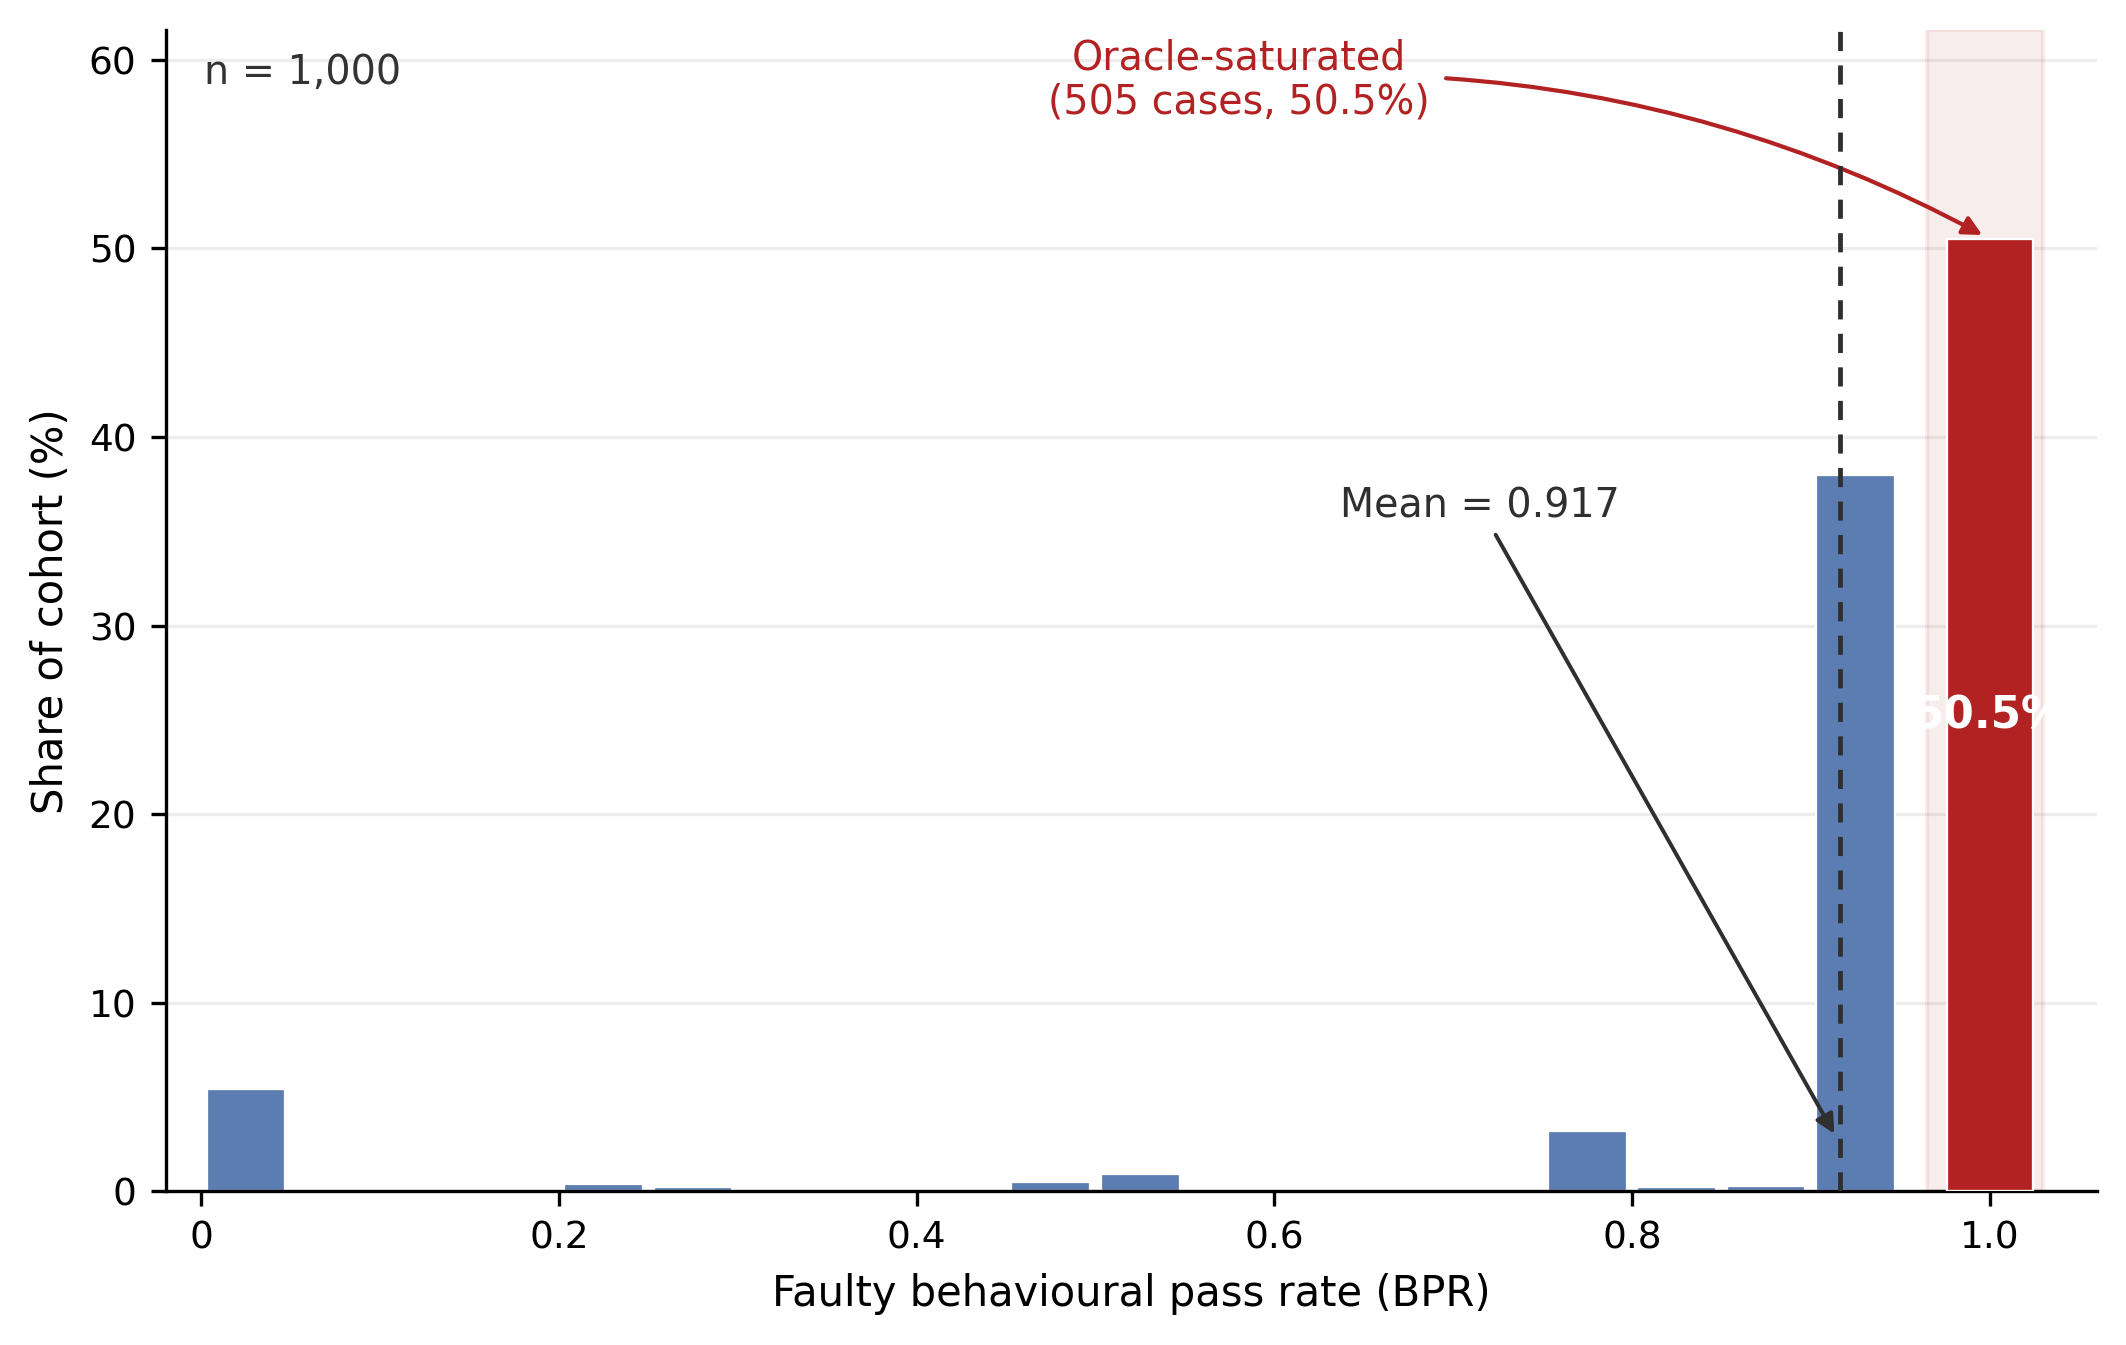
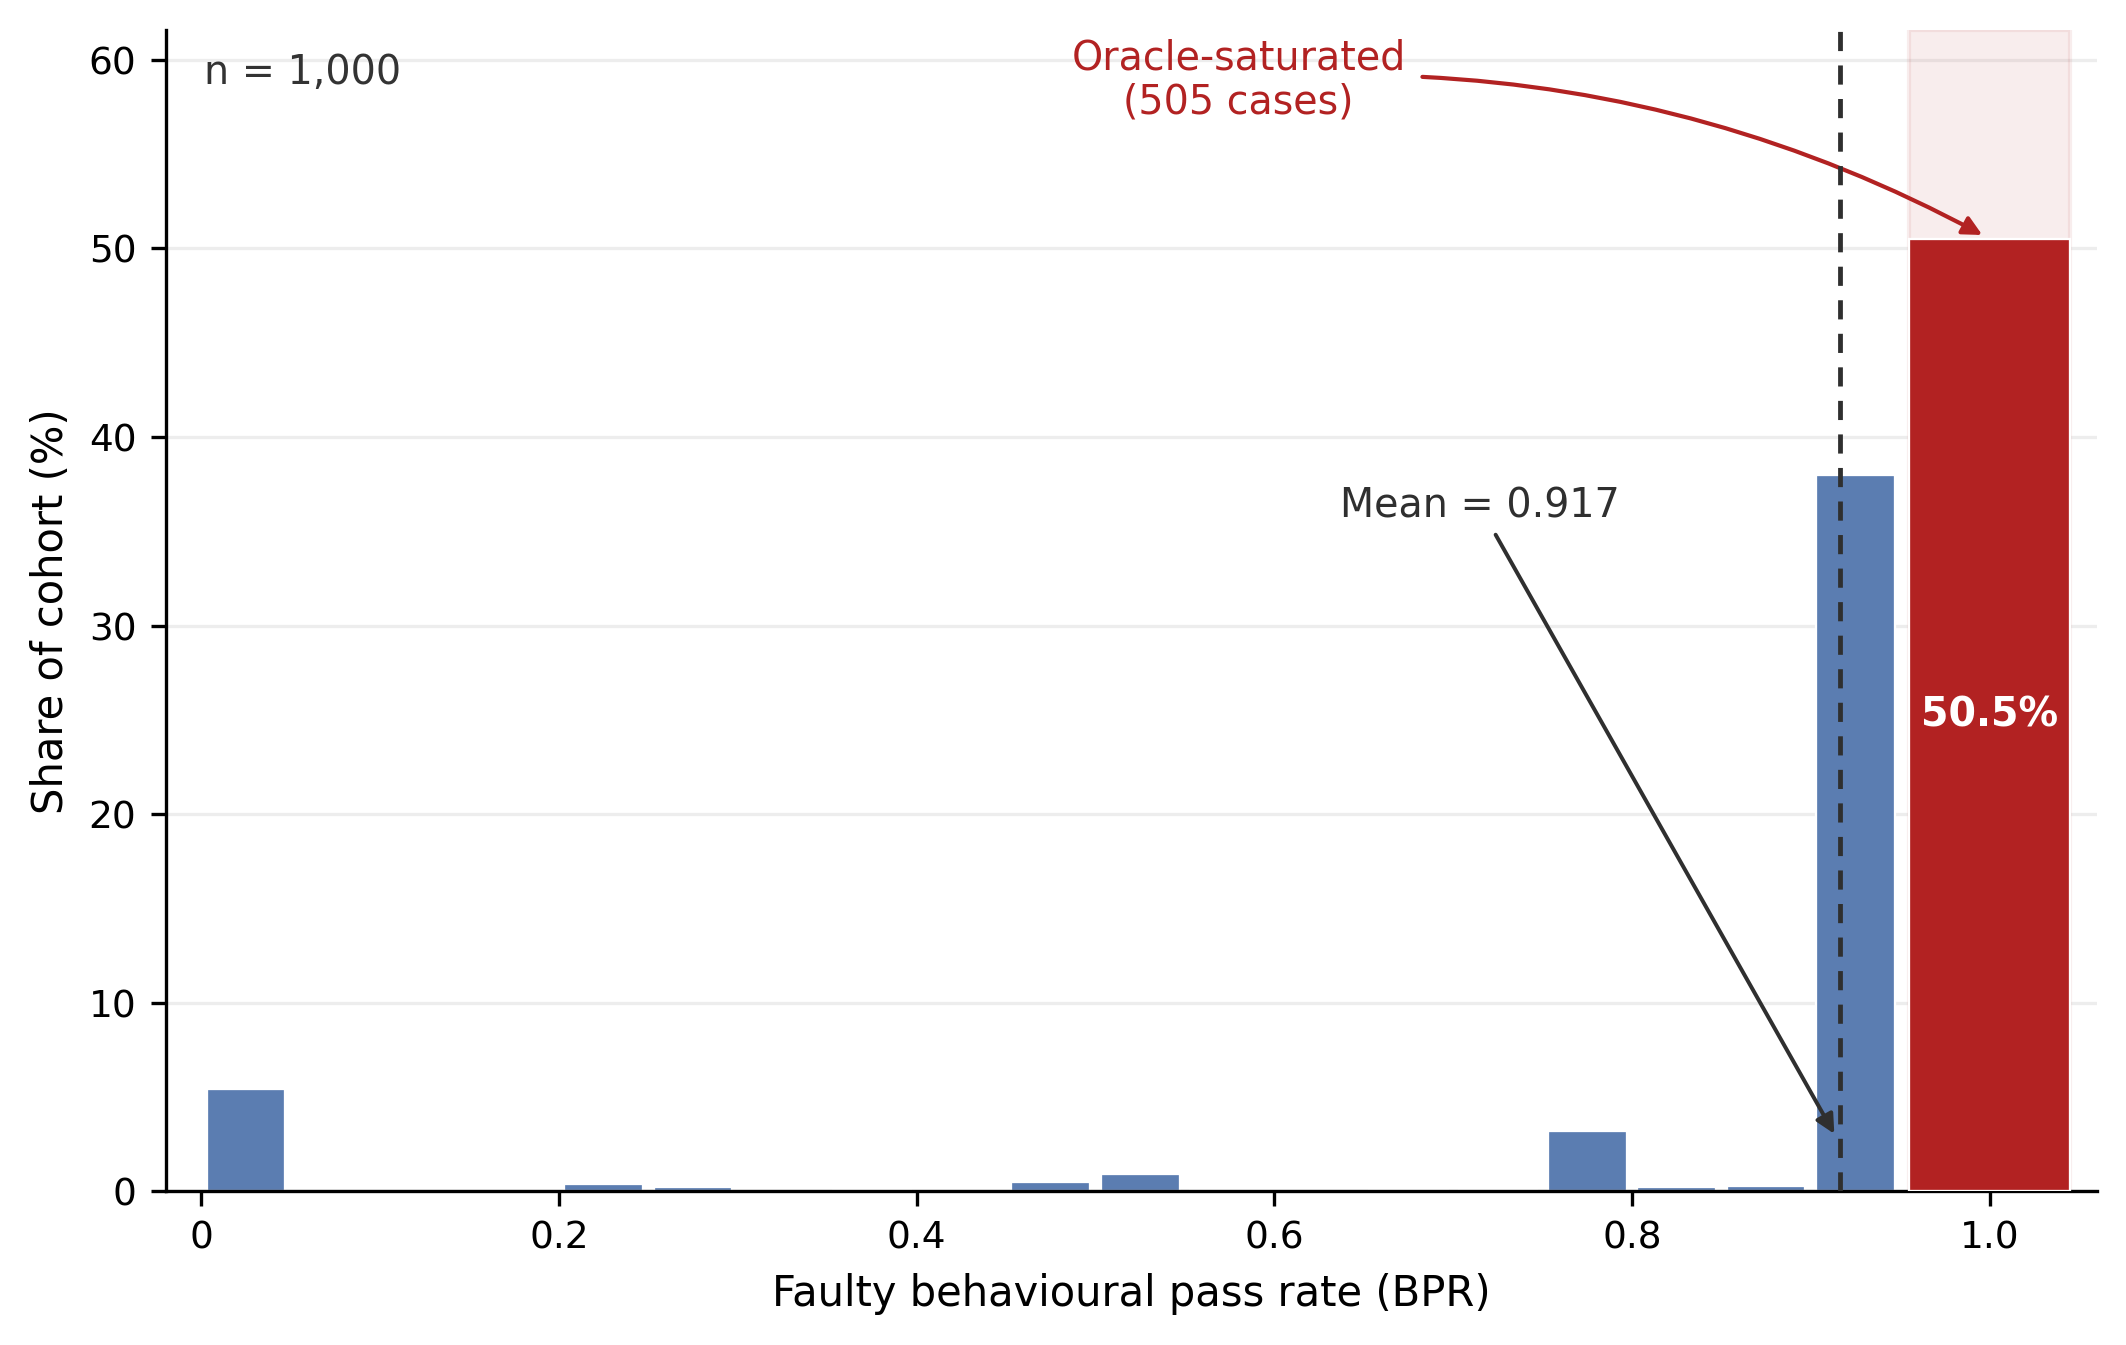
FSMRepairBench v0.3.0

Changed region(s): [[0.9003, 0.1561, 0.9934, 0.9056], [0.4967, 0.0625, 0.683, 0.0937]]

diff --git a/README.md b/README.md
@@ -5,8 +5,8 @@
 [![Python 3.11+](https://img.shields.io/badge/python-3.11+-3776ab?logo=python&logoColor=white)](https://www.python.org/downloads/)
 [![License: MIT](https://img.shields.io/badge/License-MIT-yellow.svg)](LICENSE)
 [![Package](https://img.shields.io/badge/package-0.1.0-blue)](pyproject.toml)
-[![Release](https://img.shields.io/badge/release-v0.2.1--stvr--polish-blue)](https://github.com/cesar-andress/fsmrepairbench/releases/tag/v0.2.1-stvr-polish)
-[![Dataset](https://img.shields.io/badge/dataset-v0.2.0--analysis-green)](https://doi.org/10.5281/zenodo.20602528)
+[![Release](https://img.shields.io/badge/release-v0.3.0-blue)](https://github.com/cesar-andress/fsmrepairbench/releases/tag/v0.3.0)
+[![Dataset](https://img.shields.io/badge/dataset-v0.3.0-green)](https://doi.org/10.5281/zenodo.20602528)
 [![DOI](https://zenodo.org/badge/DOI/10.5281/zenodo.20602528.svg)](https://doi.org/10.5281/zenodo.20602528)
 
 **Behavioural finite-state machine repair benchmark — toolkit, generators, and experiment pipeline.**
@@ -16,30 +16,28 @@ faulty state machines using **oracle-based scoring**, not textual diff against a
 reference. The repository ships a working Python implementation: JSON schemas, validation,
 seeded mutation, dataset builders, LLM/baseline repair experiments, and governance tooling.
 
-> **The empirical dataset and paper metrics remain frozen at
-> [v0.2.0-analysis](https://doi.org/10.5281/zenodo.20602528) / Zenodo DOI
-> [10.5281/zenodo.20602528](https://doi.org/10.5281/zenodo.20602528).**
+> **Canonical release for the STVR manuscript:**
+> **[v0.3.0 — Benchmark Demonstration Release](https://github.com/cesar-andress/fsmrepairbench/releases/tag/v0.3.0)**
+> (Zenodo DOI [10.5281/zenodo.20602528](https://doi.org/10.5281/zenodo.20602528)).
 >
-> **[v0.2.1-stvr-polish](https://github.com/cesar-andress/fsmrepairbench/releases/tag/v0.2.1-stvr-polish)**
-> is the latest GitHub release for reproducibility, documentation, manifests, and
-> submission polish. **v0.2.1-stvr-polish does not modify benchmark cases, oracle suites,
-> mutation operators, campaign cohorts, or reported empirical metrics.**
+> The release archives the frozen thousand-case cohort, construct-labelled demonstration
+> exports (repair, localisation, oracle-depth/surface studies, SBFL comparison, coupling),
+> reproducibility scripts, and manuscript assets. Headline empirical metrics are unchanged
+> from prior frozen exports.
 >
 > **Package version** `0.1.0` (`pyproject.toml`) is the installable Python semver; it is
-> independent of Zenodo and GitHub release labels.
+> independent of GitHub release labels.
 >
-> **v0.3.x pilots** (multi-family smoke, negative controls, oracle-depth v2, random-secondary
-> coupling) are future experimental work and **not** part of the primary paper deposit.
-> Multi-family cohort documentation:
-> [`../docs/multifamily_cohorts.md`](../docs/multifamily_cohorts.md).
+> **Historical labels:** `v0.2.0-analysis` and `v0.2.1-stvr-polish` refer to earlier
+> packaging of the same frozen cohort and metrics; see [`VERSIONING_POLICY.md`](VERSIONING_POLICY.md).
 
 ### Release labels
 
 | Label | Role | Cite / use |
 |-------|------|------------|
-| **[v0.2.0-analysis](https://doi.org/10.5281/zenodo.20602528)** | Frozen dataset and empirical campaign release | **Cite this in the STVR paper** (Zenodo DOI `10.5281/zenodo.20602528`) |
-| **[v0.2.1-stvr-polish](https://github.com/cesar-andress/fsmrepairbench/releases/tag/v0.2.1-stvr-polish)** | Reproducibility and submission-polish release | **Use this for latest tooling and public documentation** |
-| **v0.3.x** | Future pilots and extensions | Not paper evidence; experimental only |
+| **[v0.3.0](https://github.com/cesar-andress/fsmrepairbench/releases/tag/v0.3.0)** | Benchmark demonstration release | **Cite in the STVR paper** (GitHub release + Zenodo DOI `10.5281/zenodo.20602528`) |
+| **`v0.2.0-analysis`** | Historical export label on early campaign bundles | Provenance only; superseded by v0.3.0 |
+| **`v0.2.1-stvr-polish`** | Historical tooling tag | Provenance only; superseded by v0.3.0 |
 
 ---
 
@@ -85,10 +83,11 @@ candidate FSM. See [docs/oracle_spec.md](docs/oracle_spec.md).
 
 ---
 
-## Paper release (v0.2.0-analysis)
+## Paper release (v0.3.0)
 
-Empirical campaigns reported in the STVR manuscript use release label **`v0.2.0-analysis`**
-(Zenodo [10.5281/zenodo.20602528](https://doi.org/10.5281/zenodo.20602528)).
+Empirical campaigns reported in the STVR manuscript use release label **`v0.3.0`**
+([GitHub](https://github.com/cesar-andress/fsmrepairbench/releases/tag/v0.3.0);
+Zenodo [10.5281/zenodo.20602528](https://doi.org/10.5281/zenodo.20602528)).
 
 | Item | Value |
 |------|-------|
@@ -97,7 +96,7 @@ Empirical campaigns reported in the STVR manuscript use release label **`v0.2.0-
 | **Cohort manifests** | `analysis_cohort_1k.txt`, `localization_cohort_1k.txt`, `coupling_campaign_250.txt`, `oracle_depth_ablation_200.txt` |
 | **Mutation operators** | **19 registered**, **17 realised** in the analysis cohort (`timed_selective_mutation`, `variable_intra_class`: 0 cases) |
 | **Frozen exports** | `results/taxonomy_coverage/`, `results/analysis/`, `results/rq3_localization_1k/`, `results/rq4_coupling_250/`, `results/baseline_repair_C1/`, `results/oracle_depth_ablation/` |
-| **Reproduction guide** | [`../paper1/CANONICAL_REPRODUCTION.md`](../paper1/CANONICAL_REPRODUCTION.md) (GitHub `v0.2.1-stvr-polish`) |
+| **Reproduction guide** | [`../paper1/CANONICAL_REPRODUCTION.md`](../paper1/CANONICAL_REPRODUCTION.md) (GitHub `v0.3.0`) |
 | **Paper mirror** | `../paper1/results/` (LaTeX/PNG copies; see monorepo layout) |
 
 Verify pinned cohort SHA-256 digests:
@@ -214,24 +213,29 @@ fsmrepairbench analyze-benchmark data/fsmrepairbench_1k_multifamily \
 ```
 
 Full guide: [`../docs/multifamily_cohorts.md`](../docs/multifamily_cohorts.md) · GitHub
-[`v0.2.1-stvr-polish`](https://github.com/cesar-andress/fsmrepairbench/releases/tag/v0.2.1-stvr-polish)
+[`v0.3.0`](https://github.com/cesar-andress/fsmrepairbench/releases/tag/v0.3.0)
 
 ---
 
-## Tooling release (v0.2.1-stvr-polish)
+## Historical tooling release (v0.2.1-stvr-polish)
 
 GitHub release:
 **[v0.2.1-stvr-polish](https://github.com/cesar-andress/fsmrepairbench/releases/tag/v0.2.1-stvr-polish)**
 
-This tag improves reproducibility documentation, release audits, manifest metadata, and
-paper-export traceability. It **does not** change:
+Historical pre-v0.3.0 tag for reproducibility documentation and submission polish.
+Superseded by **`v0.3.0`** for manuscript citation. It **does not** change benchmark cases,
+oracle suites, mutation operators, cohort manifests, or headline empirical metrics.
 
-- benchmark cases under `data/fsmrepairbench_1k/cases/`
-- oracle suites, mutation operators, or cohort manifests
-- frozen campaign CSV/PNG exports or the empirical metrics reported in the manuscript
+---
 
-Clone or check out `v0.2.1-stvr-polish` for the latest public docs; cite Zenodo
-**`v0.2.0-analysis`** (`10.5281/zenodo.20602528`) for all paper tables and figures.
+## Canonical release (v0.3.0)
+
+GitHub release:
+**[v0.3.0](https://github.com/cesar-andress/fsmrepairbench/releases/tag/v0.3.0)**
+(*FSMRepairBench v0.3.0 — Benchmark Demonstration Release*)
+
+Clone or check out **`v0.3.0`** for the STVR manuscript bundle; cite Zenodo
+**`10.5281/zenodo.20602528`** for dataset bytes and headline metrics.
 
 ---
 
@@ -567,19 +571,18 @@ Full roadmap: [docs/roadmap.md](docs/roadmap.md) · Vision:
 
 ## Citation
 
-If you use the **empirical dataset or paper metrics**, cite Zenodo **`v0.2.0-analysis`**
-(`10.5281/zenodo.20602528`). If you use the **software toolchain**, cite the GitHub
-repository (optionally tag **`v0.2.1-stvr-polish`** for the latest reproducibility bundle):
+If you use the **empirical dataset, demonstration exports, or paper metrics**, cite
+**`v0.3.0`** and Zenodo DOI **`10.5281/zenodo.20602528`**. If you use the **software
+toolchain**, cite the GitHub repository at tag **`v0.3.0`**:
 
 ```bibtex
-@software{fsmrepairbench2026,
-  title        = {FSMRepairBench: A Benchmark for Behavioural Finite-State Machine Repair},
-  author       = {Andr{\'e}s, C{\'e}sar and FSMRepairBench Contributors},
+@misc{fsmrepairbench2026_v030,
+  title        = {{FSMRepairBench v0.3.0: Benchmark Demonstration Release}},
+  author       = {Andr{\'e}s, C{\'e}sar},
   year         = {2026},
-  url          = {https://github.com/cesar-andress/fsmrepairbench},
-  version      = {0.1.0},
+  howpublished = {\url{https://github.com/cesar-andress/fsmrepairbench/releases/tag/v0.3.0}},
   doi          = {10.5281/zenodo.20602528},
-  note         = {Release label v0.2.0-analysis; frozen 1{,}000-case empirical campaign}
+  note         = {Version v0.3.0}
 }
 ```
 

diff --git a/VERSIONING_POLICY.md b/VERSIONING_POLICY.md
@@ -17,61 +17,71 @@ FSMRepairBench uses **three** complementary version axes:
 |-------|----------|---------|
 | **Schema version** | `v0.1`, `v1.0`, `v1.1`, `v2.0` | On-disk JSON contract |
 | **Evolution release** | `v0`, `v1`, `v2` | Major benchmark generation era |
-| **Paper / Zenodo release label** | `v0.2.0-analysis` | Frozen empirical campaign bundle (dataset + exports) |
-| **GitHub tooling release label** | `v0.2.1-stvr-polish` | Reproducibility, documentation, manifests — no new empirical data |
+| **Paper / GitHub release label** | `v0.3.0` | Canonical benchmark demonstration release (STVR manuscript) |
+| **Historical Zenodo campaign label** | `v0.2.0-analysis` | Earlier export metadata on the same frozen cohort |
+| **Historical GitHub tooling label** | `v0.2.1-stvr-polish` | Pre-v0.3.0 reproducibility tag |
 | **Python package version** | `0.1.0` (`pyproject.toml`) | Installable CLI/library semver |
 
-**The empirical dataset and paper metrics remain frozen at
-[v0.2.0-analysis](https://doi.org/10.5281/zenodo.20602528) / Zenodo DOI
-[10.5281/zenodo.20602528](https://doi.org/10.5281/zenodo.20602528).**
+**Canonical release for the STVR manuscript:**
+**[v0.3.0 — Benchmark Demonstration Release](https://github.com/cesar-andress/fsmrepairbench/releases/tag/v0.3.0)**
+with Zenodo DOI [10.5281/zenodo.20602528](https://doi.org/10.5281/zenodo.20602528).
 
 ### Release labels (summary)
 
 | Label | Role |
 |-------|------|
-| **`v0.2.0-analysis`** | Frozen dataset and empirical campaign release — cite in the STVR paper |
-| **[v0.2.1-stvr-polish](https://github.com/cesar-andress/fsmrepairbench/releases/tag/v0.2.1-stvr-polish)** | Reproducibility and submission-polish release — use for latest tooling |
-| **`v0.3.x`** | Future pilots and extensions — not paper evidence |
+| **`v0.3.0`** | Benchmark demonstration release — cite in the STVR paper |
+| **`v0.2.0-analysis`** | Historical export label — provenance only |
+| **`v0.2.1-stvr-polish`** | Historical tooling tag — provenance only |
 
-### v0.2.0-analysis (frozen paper release)
+### v0.3.0 (canonical benchmark demonstration release)
 
-The STVR manuscript and Zenodo deposit [10.5281/zenodo.20602528](https://doi.org/10.5281/zenodo.20602528)
-use release label **`v0.2.0-analysis`**. This label identifies:
+GitHub release:
+**[v0.3.0](https://github.com/cesar-andress/fsmrepairbench/releases/tag/v0.3.0)**
+(*FSMRepairBench v0.3.0 — Benchmark Demonstration Release*).
+
+This label identifies:
 
 - Dataset `data/fsmrepairbench_1k/` (1,024 completed builds; **1,000** pinned analysis cases)
 - Pinned cohort manifests (`analysis_cohort_1k.txt`, `localization_cohort_1k.txt`,
   `coupling_campaign_250.txt`, `oracle_depth_ablation_200.txt`)
-- Frozen campaign exports under `results/` (RQ1–RQ4, C1, C3) with `manifest.json`
+- Frozen demonstration exports under `paper1/results/` and `results/` (RQ1–RQ4, C1, C3,
+  oracle-surface sensitivity, SBFL comparison, open-weight repair baseline)
+- Reproducibility scripts, manuscript exports, and artifact manifests
 
-The Python package may remain at **`0.1.0`** while the Zenodo release label stays
-`v0.2.0-analysis`. Cite the **Zenodo DOI and release label** for empirical results;
+Cite **GitHub release `v0.3.0` and Zenodo DOI `10.5281/zenodo.20602528`** for empirical
+results and archived demonstration readouts. Cite **package version + git tag** for software
+reproducibility.
+
+### v0.2.0-analysis (historical export label)
+
+The label **`v0.2.0-analysis`** appears on early frozen export metadata for the same
+ thousand-case cohort. It does **not** supersede **`v0.3.0`** for manuscript citation.
+
+Zenodo deposit [10.5281/zenodo.20602528](https://doi.org/10.5281/zenodo.20602528) hosts
+dataset bytes referenced by all release labels above.
+
+The Python package may remain at **`0.1.0`** while GitHub release labels evolve.
+Cite the **Zenodo DOI and v0.3.0 release label** for empirical results;
 cite **package version + git tag** for software reproducibility.
 
-Git tag: `v0.2.0-analysis` on this repository.
-
-### v0.2.1-stvr-polish (tooling and documentation release)
+### v0.2.1-stvr-polish (historical tooling release)
 
 GitHub release:
 **[v0.2.1-stvr-polish](https://github.com/cesar-andress/fsmrepairbench/releases/tag/v0.2.1-stvr-polish)**
 
-This label identifies documentation, reproducibility audits, manifest metadata alignment, and
-submission-polish updates shipped after the Zenodo deposit. **v0.2.1-stvr-polish does not
-modify benchmark cases, oracle suites, mutation operators, campaign cohorts, or reported
-empirical metrics.**
+Historical tag for pre-v0.3.0 reproducibility polish. Superseded by **`v0.3.0`** for
+manuscript citation. **Does not modify benchmark cases, oracle suites, mutation operators,
+campaign cohorts, or reported empirical metrics** relative to the frozen cohort.
 
-- Dataset remains **`data/fsmrepairbench_1k`** pinned to Zenodo **`v0.2.0-analysis`**
-- Cite Zenodo DOI **`10.5281/zenodo.20602528`** for all paper tables and figures
-- Check out tag **`v0.2.1-stvr-polish`** for the latest public reproducibility bundle
-
-### v0.3.x experimental pilots (not a replacement release)
+### Experimental pilots (not the primary release)
 
 Features under `results/multifamily_v0_3_smoke/`, `results/negative_controls/`,
 `results/oracle_depth_ablation_v2/`, and `results/rq4_coupling_250_random_secondary/`
 are **experimental** robustness pilots. They:
 
-- Do **not** supersede `v0.2.0-analysis`
-- Are **not** part of the primary Zenodo deposit for the STVR paper
-- May change without a Zenodo version bump until promoted to a future release label
+- Do **not** supersede headline metrics on the primary thousand-case cohort
+- May change without a release bump until promoted into a future release label
 
 See [docs/implementation_audit_v0_3.md](docs/implementation_audit_v0_3.md) and
 [docs/README.md](docs/README.md).

diff --git a/data/fsmrepairbench_1k/README.md b/data/fsmrepairbench_1k/README.md
@@ -1,7 +1,7 @@
 # Stratified Dataset: fsmrepairbench_1k
 
 - **Dataset:** fsmrepairbench_1k
-- **Version:** 0.2.0-analysis
+- **Release label:** v0.3.0 (canonical); historical export label `0.2.0-analysis` on early campaign metadata
 - **Number of completed FSM cases:** 1,024
 - **Number of analyzed FSM cases:** 1,000 (pinned cohort)
 - **Files:** reference_fsm.json, faulty_fsm.json, oracle_suite.json, bug_metadata.json, case_features.json

diff --git a/results/analysis/report.md b/results/analysis/report.md
@@ -1,7 +1,7 @@
 # FSMRepairBench Dataset Analysis Report
 
 **Dataset:** `data/fsmrepairbench_1k`  
-**Generated:** 2026-06-16 14:25 UTC  
+**Generated:** 2026-06-16 22:46 UTC  
 **Cases analyzed:** 1000
 
 ## Abstract